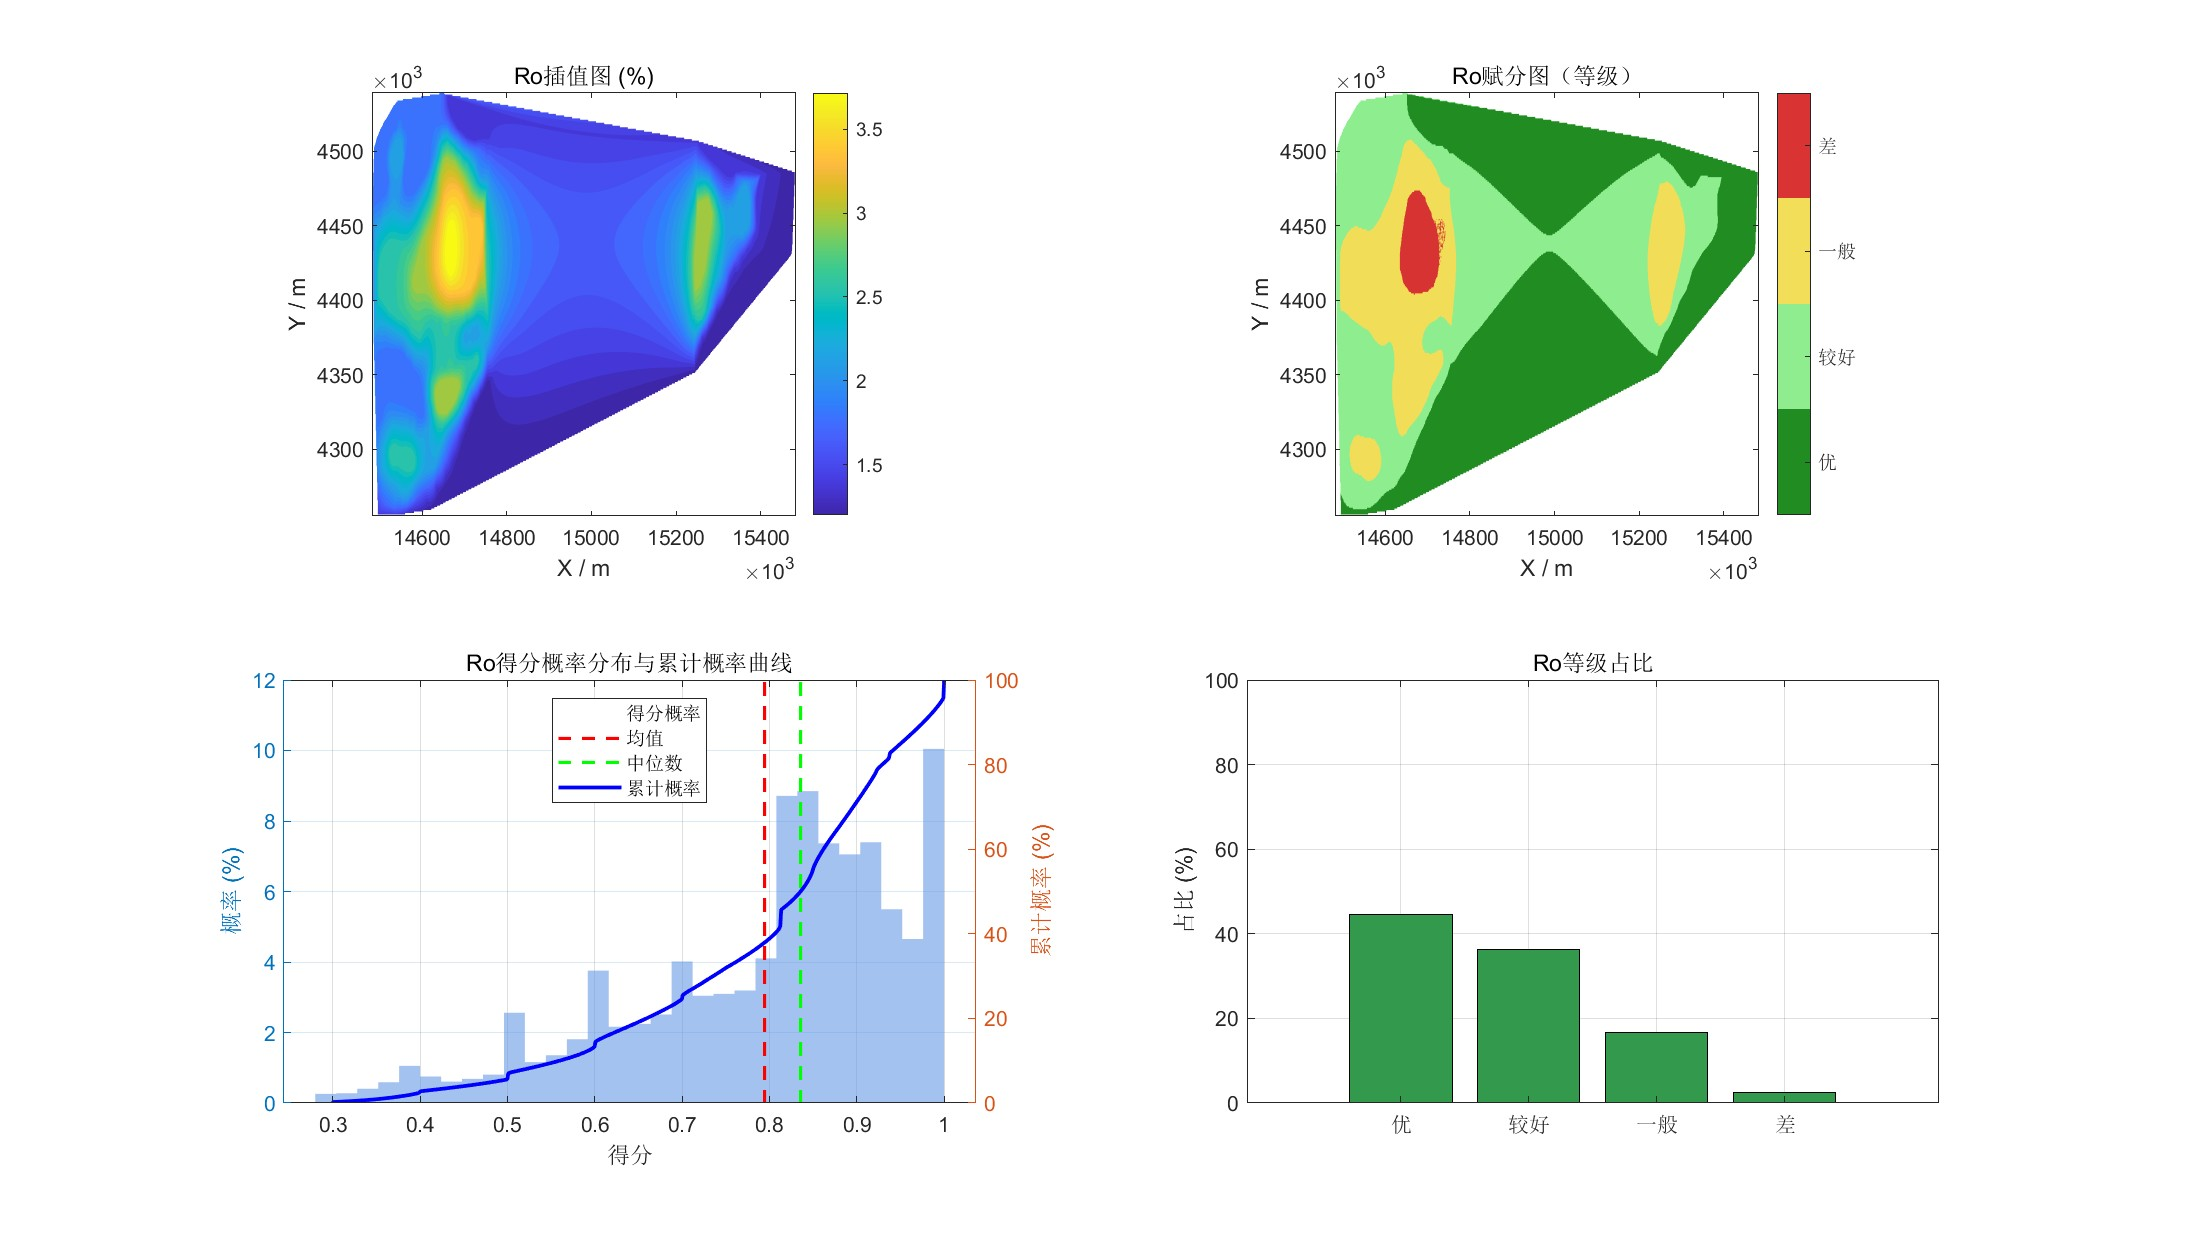
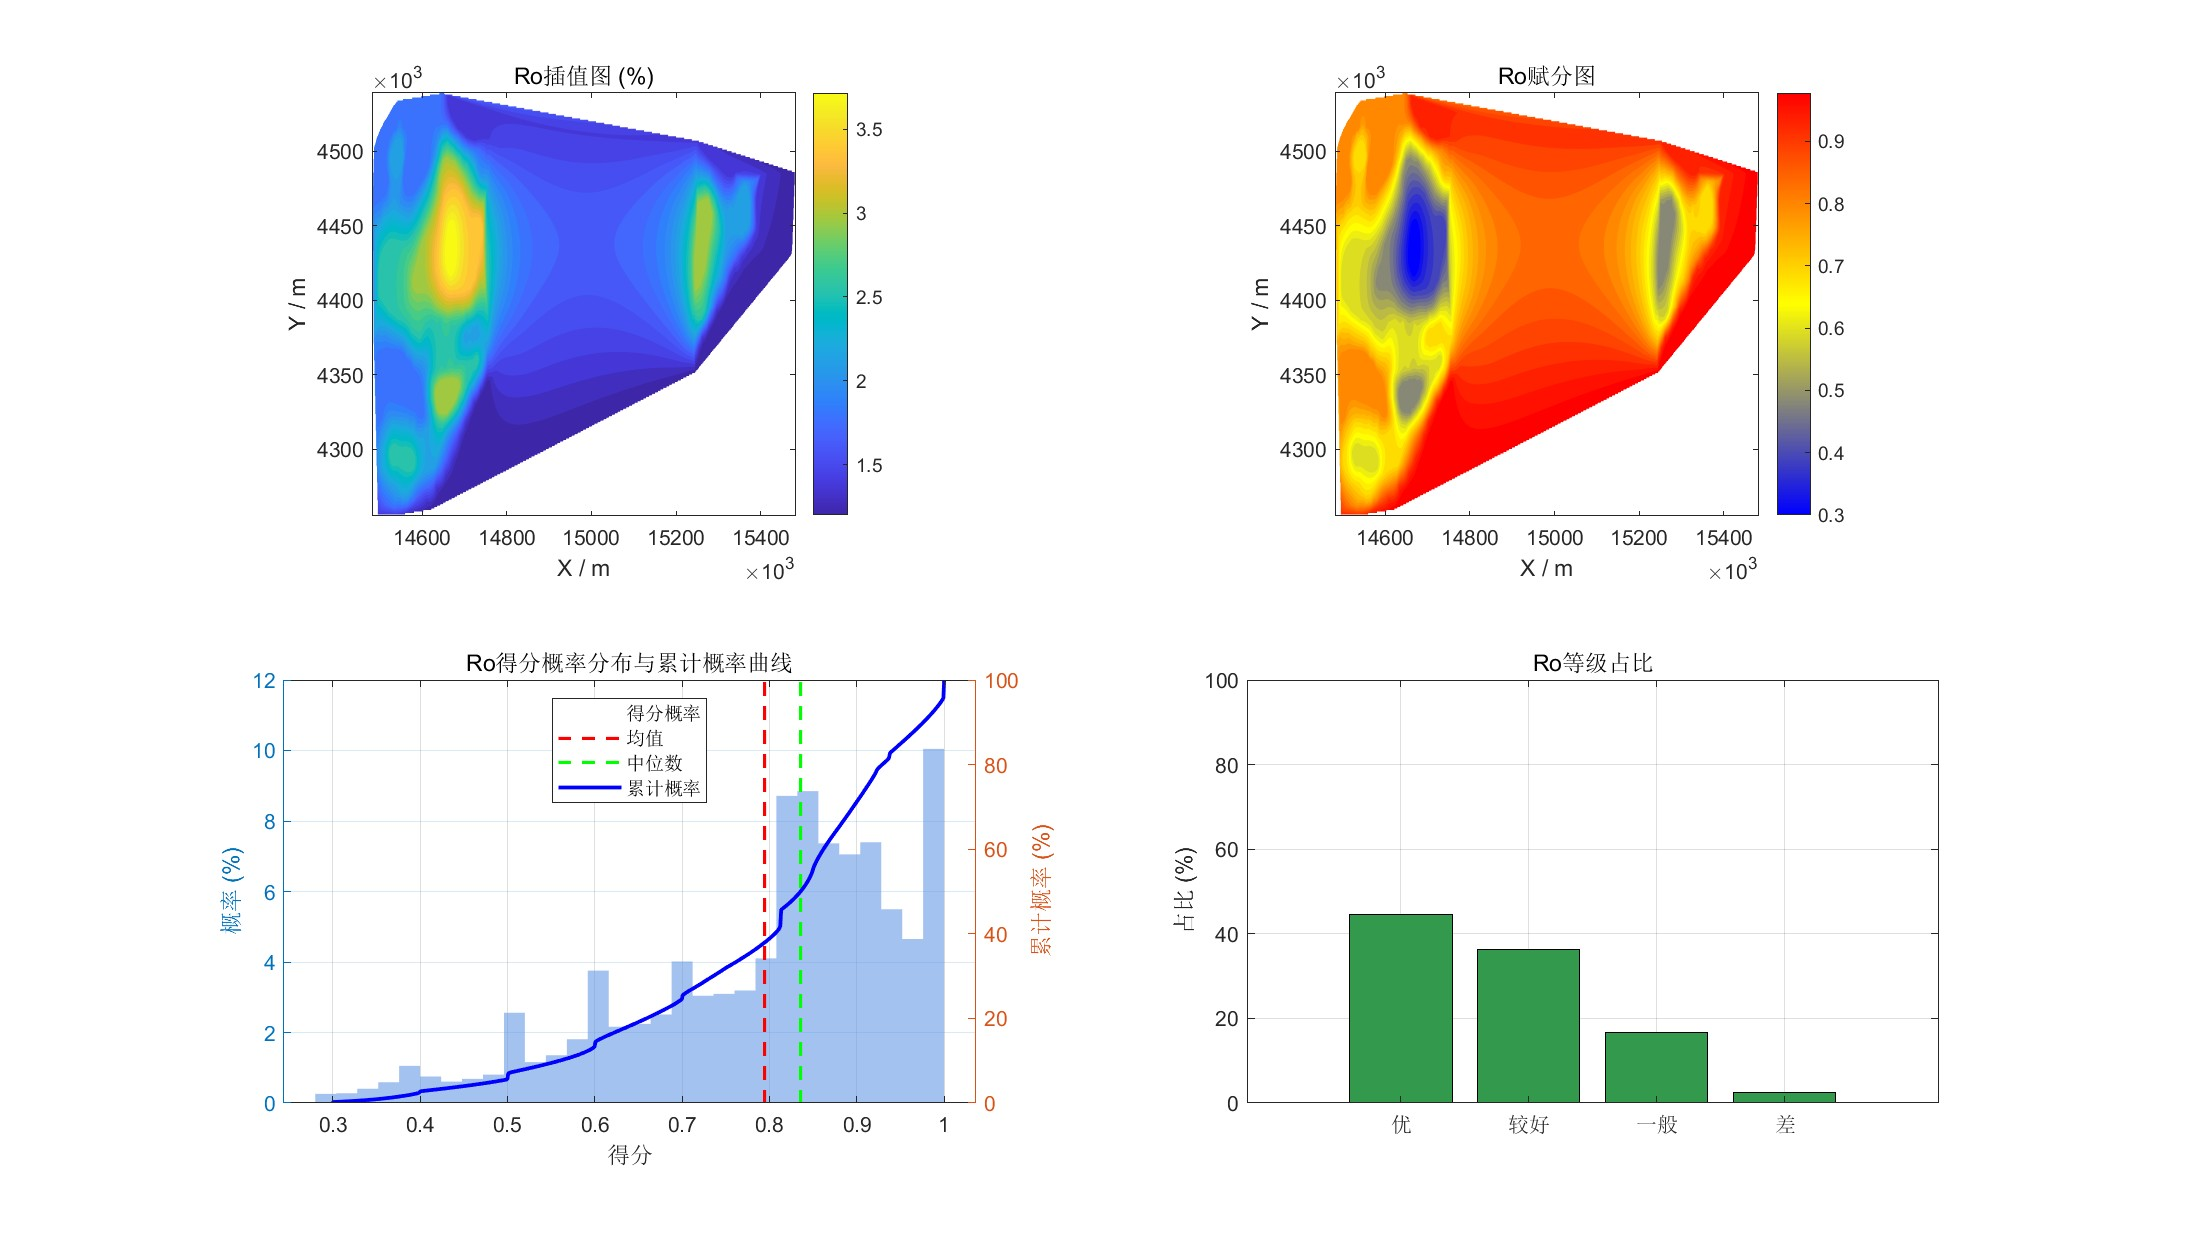
赋值图的色系

Changed region(s): [[0.5908, 0.0307, 0.8395, 0.4294]]

diff --git a/three_factor.m b/three_factor.m
@@ -53,15 +53,15 @@ value = Zg(valid); Xv = Xg(valid); Yv = Yg(valid);
 score = interp1(cfg.edges, cfg.scores, value, 'linear', 'extrap');
 score = max(0.25, min(1.00, score));
 grade = to_grade(score);
-grade_map = nan(size(Zg)); grade_map(valid) = grade;
+score_map = nan(size(Zg)); score_map(valid) = score;   % 连续赋分值（0.25~1.0）
 fprintf('赋分范围     : %.3f ~ %.3f\n', min(score), max(score));
 
 % TOC、Ro：插值图+赋分图+概率分布+等级占比 四合一界面，导出 JPG；
 % 厚度：保持插值图、赋分图、概率统计图三个独立图。
 if ismember(cfg.name, {'TOC','Ro'})
-    plot_combined_export(cfg, Xg, Yg, Zg, grade_map, score, grade);
+    plot_combined_export(cfg, Xg, Yg, Zg, score_map, score, grade);
 else
-    plot_separate(cfg, Xg, Yg, Zg, grade_map, score, grade);
+    plot_separate(cfg, Xg, Yg, Zg, score_map, score, grade);
 end
 
 fprintf('\n=== %s 得分统计（%d 个样本） ===\n',cfg.name,numel(score));
@@ -80,7 +80,7 @@ fprintf('  等级占比: 优 %.1f%%   较好 %.1f%%   一般 %.1f%%   差 %.1f%%
 %fprintf('已导出 %s（%d 个节点）\n',outfile,height(T_out));
 end
 
-function plot_separate(cfg, Xg, Yg, Zg, grade_map, score, grade)
+function plot_separate(cfg, Xg, Yg, Zg, score_map, score, grade)
 % 厚度等：插值图、赋分图、概率统计图三个独立图形
 figure('Name',[cfg.name '插值图'],'Color','w');
 contourf(Xg,Yg,Zg,30,'LineStyle','none');
@@ -93,23 +93,23 @@ xlabel('X / m'); ylabel('Y / m');
 title(sprintf('%s插值图 (%s)',cfg.name,cfg.unit));
 
 figure('Name',[cfg.name '赋分图'],'Color','w');
-cmap = [0.13 0.55 0.13; 0.56 0.93 0.56; 0.95 0.87 0.35; 0.85 0.20 0.20];
-contourf(Xg,Yg,grade_map,[0.5 1.5 2.5 3.5 4.5],'LineStyle','none');
-colormap(gca,cmap); caxis([0.5 4.5]);
-cb = colorbar; set(cb,'Ticks',1:4,'TickLabels',{'优','较好','一般','差'});
+mapColors = red_yellow_blue(256);
+contourf(Xg,Yg,score_map,30,'LineStyle','none');
+colormap(gca, mapColors);
+colorbar;
 axis tight;              % 贴紧数据范围
 pbaspect([1 1 1]);       % 强制正方形绘图区
 set(gcf,'Units','pixels','Position',[60 60 680 640]);  % 正方形窗口
 ax = gca; ax.XAxis.Exponent = 3; ax.YAxis.Exponent = 3;   % 横纵坐标科学计数法 ×10³
 xlabel('X / m'); ylabel('Y / m');
-title([cfg.name '赋分图（等级）']);
+title([cfg.name '赋分图']);
 
 figure('Name',[cfg.name '概率统计图'],'Color','w');
 subplot(1,2,1); plot_prob_cdf(score, cfg);
 subplot(1,2,2); plot_grade_prop(grade, cfg);
 end
 
-function plot_combined_export(cfg, Xg, Yg, Zg, grade_map, score, grade)
+function plot_combined_export(cfg, Xg, Yg, Zg, score_map, score, grade)
 % TOC、Ro：插值图+赋分图+概率分布+等级占比 2×2 合一界面，并导出 JPG
 figure('Name',[cfg.name '综合评价图'],'Color','w', ...
     'Units','pixels','Position',[40 40 1400 800]);
@@ -123,14 +123,14 @@ xlabel('X / m'); ylabel('Y / m');
 title(sprintf('%s插值图 (%s)',cfg.name,cfg.unit));
 
 subplot(2,2,2);          % 赋分图
-cmap = [0.13 0.55 0.13; 0.56 0.93 0.56; 0.95 0.87 0.35; 0.85 0.20 0.20];
-contourf(Xg,Yg,grade_map,[0.5 1.5 2.5 3.5 4.5],'LineStyle','none');
-colormap(gca,cmap); caxis([0.5 4.5]);
-cb = colorbar; set(cb,'Ticks',1:4,'TickLabels',{'优','较好','一般','差'});
+mapColors = red_yellow_blue(256);
+contourf(Xg,Yg,score_map,30,'LineStyle','none');
+colormap(gca, mapColors);
+colorbar;
 axis tight; pbaspect([1 1 1]);
 ax = gca; ax.XAxis.Exponent = 3; ax.YAxis.Exponent = 3;
 xlabel('X / m'); ylabel('Y / m');
-title([cfg.name '赋分图（等级）']);
+title([cfg.name '赋分图']);
 
 subplot(2,2,3); plot_prob_cdf(score, cfg);      % 概率分布 + 累计概率
 subplot(2,2,4); plot_grade_prop(grade, cfg);    % 等级占比
@@ -219,4 +219,13 @@ grade = 3*ones(size(score));
 grade(score<0.40)=4;
 grade(score>=0.65)=2;
 grade(score>=0.85)=1;
+end
+
+function map = red_yellow_blue(n)
+% 红-黄-蓝渐变：低值→蓝，中间→黄，高值→红
+if nargin < 1, n = 256; end
+t = linspace(0, 1, n)';
+map = [interp1([0 0.5 1], [0 1 1], t), ...
+       interp1([0 0.5 1], [0 1 0], t), ...
+       interp1([0 0.5 1], [1 0 0], t)];
 end
